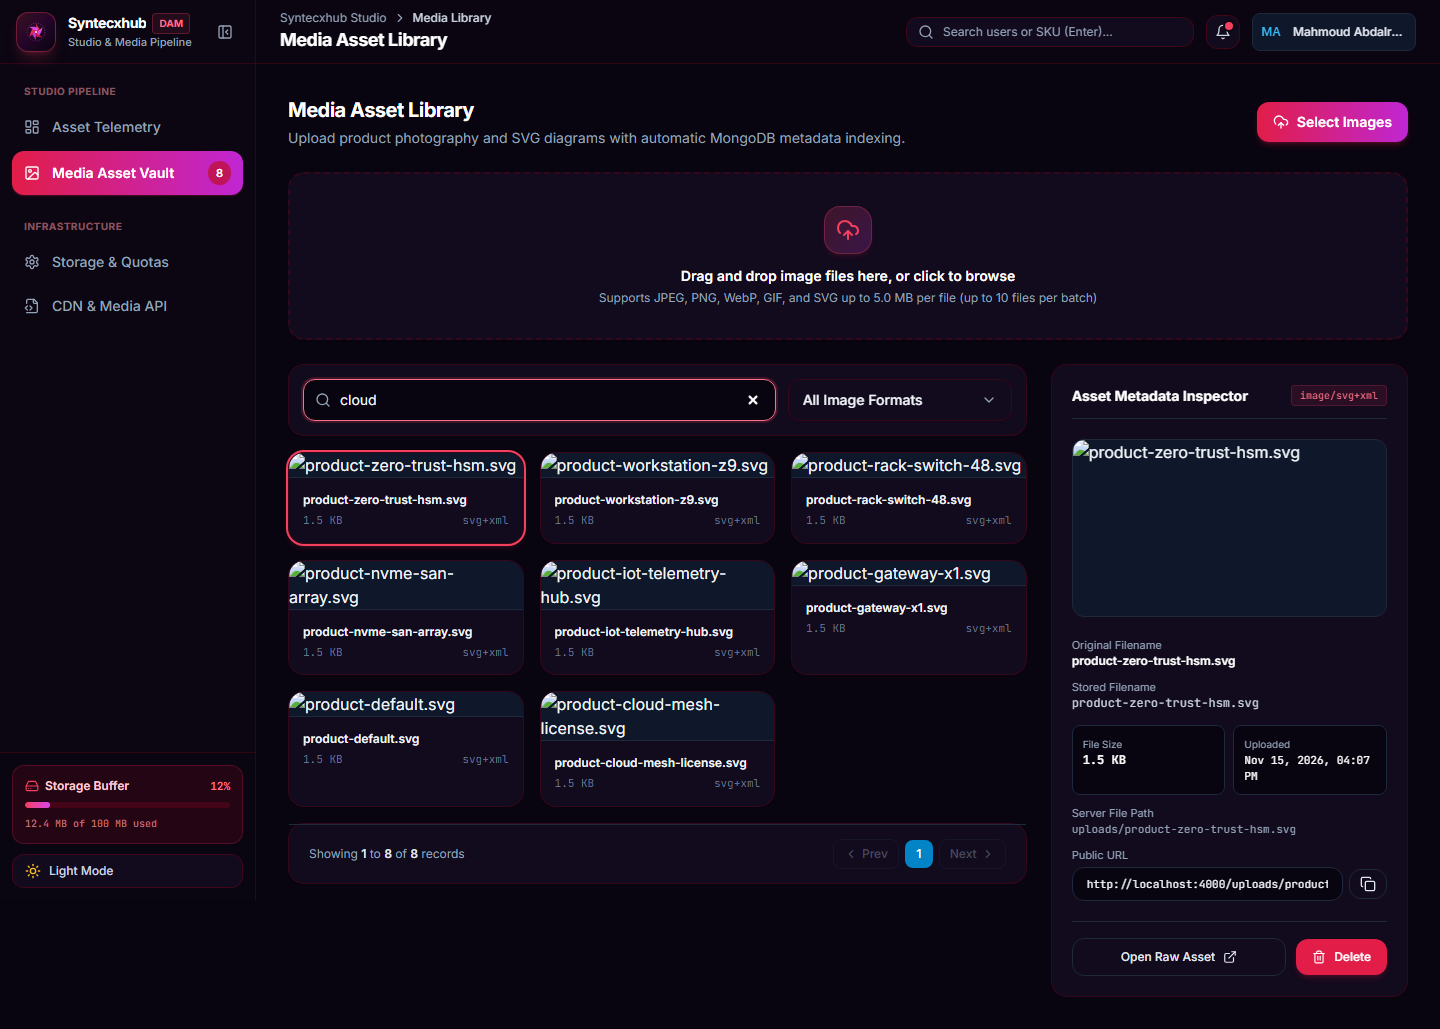
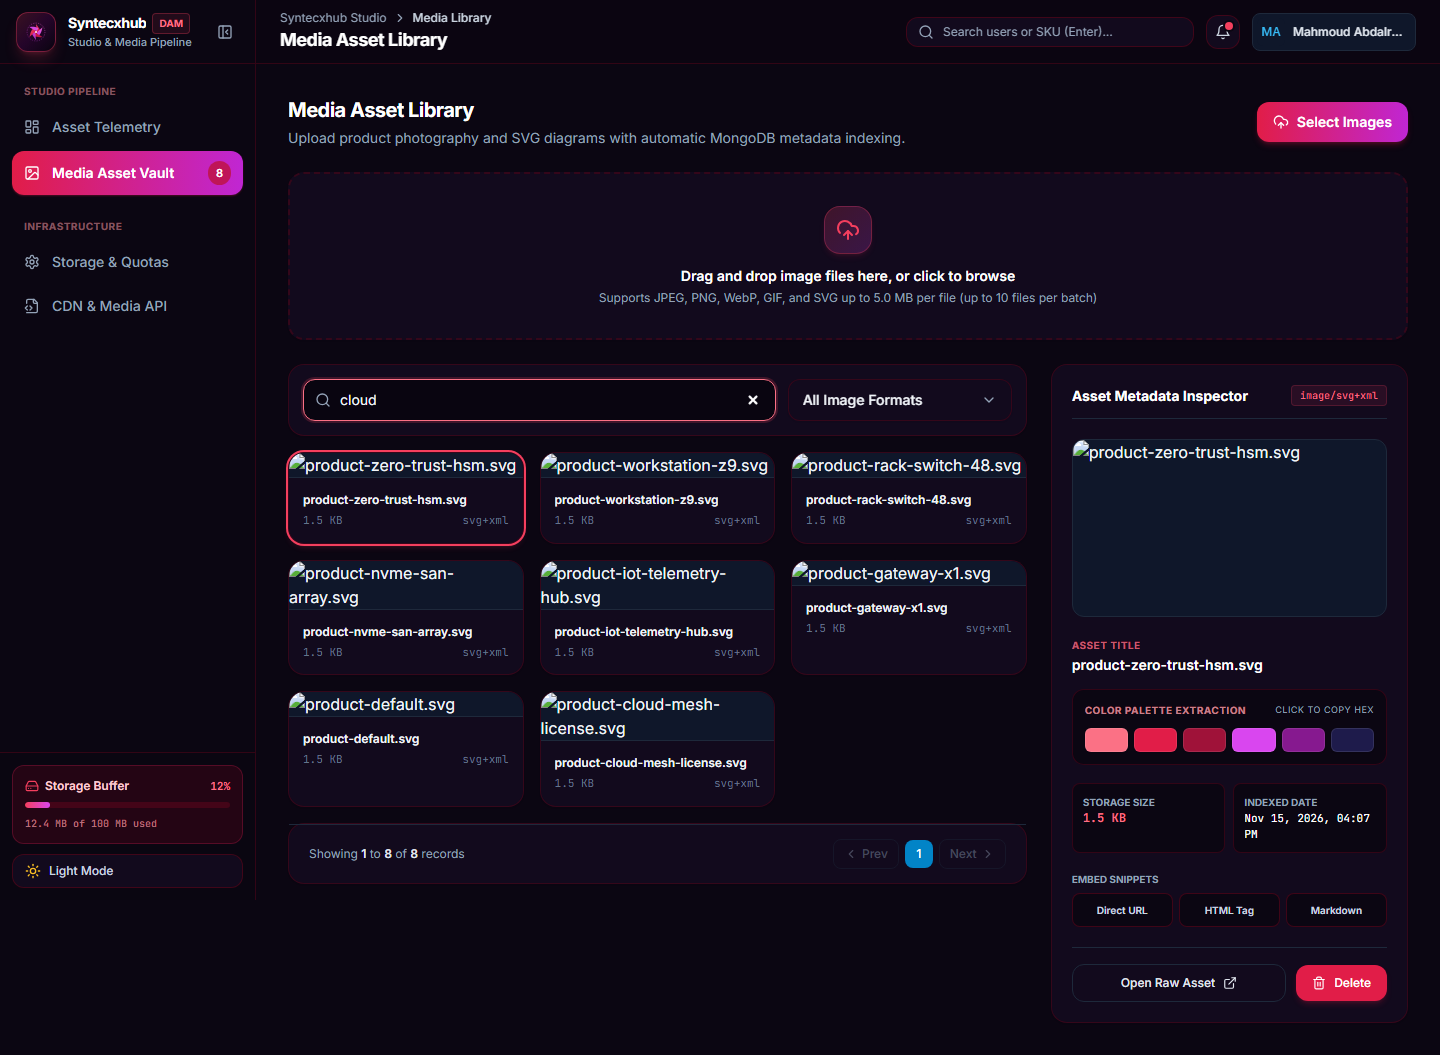
feat(ui): implement Creative Studio DAM visual canvas, ambient studio lighting, and color palette inspector

diff --git a/frontend/app/pages/media/index.vue b/frontend/app/pages/media/index.vue
@@ -402,55 +402,75 @@ const handleDeleteAsset = async (record: UploadRecord) => {
             />
           </div>
 
-          <div class="space-y-2.5 text-xs">
+          <!-- Live Creative Asset Inspector Details -->
+          <div class="space-y-3.5 text-xs">
             <div>
-              <span class="text-slate-400 block text-[11px]">Original Filename</span>
-              <span class="font-semibold text-slate-900 dark:text-white break-all">
+              <span class="text-rose-400/80 block text-[10px] uppercase font-bold tracking-wider mb-0.5">Asset Title</span>
+              <span class="font-semibold text-slate-900 dark:text-white break-all text-sm">
                 {{ uploadsStore.selectedFile.originalName }}
               </span>
             </div>
-            <div>
-              <span class="text-slate-400 block text-[11px]">Stored Filename</span>
-              <span class="font-mono text-slate-700 dark:text-slate-300 break-all">
-                {{ uploadsStore.selectedFile.storedName }}
+
+            <!-- Creative Palette Swatches -->
+            <div class="rounded-xl border border-rose-950/60 bg-[#0B0612]/90 p-3 space-y-2">
+              <span class="text-[10px] font-bold uppercase tracking-wider text-rose-300/80 flex items-center justify-between">
+                <span>Color Palette Extraction</span>
+                <span class="text-[9px] text-slate-400 font-normal">Click to copy hex</span>
               </span>
+              <div class="flex items-center gap-1.5 pt-0.5">
+                <button
+                  v-for="color in ['#FB7185', '#E11D48', '#9F1239', '#D946EF', '#86198F', '#1E1B4B']"
+                  :key="color"
+                  type="button"
+                  class="h-6 flex-1 rounded-md border border-white/10 hover:scale-110 transition-transform cursor-pointer shadow-sm relative group/c"
+                  :style="{ backgroundColor: color }"
+                  :title="`Copy ${color}`"
+                  @click="copy(color); toast.success('Copied Hex', color)"
+                >
+                  <span class="sr-only">{{ color }}</span>
+                </button>
+              </div>
             </div>
+
             <div class="grid grid-cols-2 gap-2 pt-1">
-              <div class="rounded-lg bg-slate-50 dark:bg-slate-950 p-2.5 border border-slate-200 dark:border-slate-800">
-                <span class="text-slate-400 block text-[10px]">File Size</span>
-                <span class="font-mono font-semibold text-slate-900 dark:text-white">
+              <div class="rounded-lg bg-slate-50 dark:bg-[#0B0612] p-2.5 border border-slate-200 dark:border-rose-950/60">
+                <span class="text-slate-400 block text-[10px] uppercase font-bold">Storage Size</span>
+                <span class="font-mono font-bold text-rose-400 text-xs">
                   {{ formatBytes(uploadsStore.selectedFile.size) }}
                 </span>
               </div>
-              <div class="rounded-lg bg-slate-50 dark:bg-slate-950 p-2.5 border border-slate-200 dark:border-slate-800">
-                <span class="text-slate-400 block text-[10px]">Uploaded</span>
+              <div class="rounded-lg bg-slate-50 dark:bg-[#0B0612] p-2.5 border border-slate-200 dark:border-rose-950/60">
+                <span class="text-slate-400 block text-[10px] uppercase font-bold">Indexed Date</span>
                 <span class="font-mono text-[11px] text-slate-900 dark:text-white">
                   {{ formatDateTime(uploadsStore.selectedFile.uploadDate) }}
                 </span>
               </div>
             </div>
-            <div>
-              <span class="text-slate-400 block text-[11px]">Server File Path</span>
-              <span class="font-mono text-[11px] text-slate-600 dark:text-slate-400 break-all">
-                {{ uploadsStore.selectedFile.filePath }}
-              </span>
-            </div>
-            <div>
-              <span class="text-slate-400 block text-[11px] mb-1">Public URL</span>
-              <div class="flex items-center gap-1.5">
-                <input
-                  :value="resolveAssetUrl(uploadsStore.selectedFile.publicUrl)"
-                  readonly
-                  class="input-field font-mono text-[11px] py-1.5"
-                />
+
+            <!-- CDN Embed Snippets -->
+            <div class="space-y-1.5 pt-1">
+              <span class="text-slate-400 block text-[10px] uppercase font-bold">Embed Snippets</span>
+              <div class="grid grid-cols-3 gap-1.5">
                 <button
                   type="button"
-                  class="btn-secondary px-2.5 py-1.5 shrink-0"
-                  title="Copy Public URL"
-                  @click="handleCopyUrl(uploadsStore.selectedFile.publicUrl)"
+                  class="rounded-lg border border-slate-200 dark:border-rose-950/80 bg-slate-50 dark:bg-[#0B0612] p-2 text-center text-[10px] font-semibold text-slate-700 dark:text-slate-300 hover:border-rose-500 hover:text-rose-400 transition-colors"
+                  @click="copy(resolveAssetUrl(uploadsStore.selectedFile.publicUrl)); toast.success('Copied CDN URL', 'Direct link in clipboard')"
                 >
-                  <Check v-if="copied" class="h-4 w-4 text-emerald-500" />
-                  <Copy v-else class="h-4 w-4" />
+                  Direct URL
+                </button>
+                <button
+                  type="button"
+                  class="rounded-lg border border-slate-200 dark:border-rose-950/80 bg-slate-50 dark:bg-[#0B0612] p-2 text-center text-[10px] font-semibold text-slate-700 dark:text-slate-300 hover:border-rose-500 hover:text-rose-400 transition-colors"
+                  @click="copy(`<img src=\x22${resolveAssetUrl(uploadsStore.selectedFile.publicUrl)}\x22 alt=\x22${uploadsStore.selectedFile.originalName}\x22 />`); toast.success('Copied HTML tag', 'HTML <img> tag in clipboard')"
+                >
+                  HTML Tag
+                </button>
+                <button
+                  type="button"
+                  class="rounded-lg border border-slate-200 dark:border-rose-950/80 bg-slate-50 dark:bg-[#0B0612] p-2 text-center text-[10px] font-semibold text-slate-700 dark:text-slate-300 hover:border-rose-500 hover:text-rose-400 transition-colors"
+                  @click="copy(`![${uploadsStore.selectedFile.originalName}](${resolveAssetUrl(uploadsStore.selectedFile.publicUrl)})`); toast.success('Copied Markdown', 'Markdown embed in clipboard')"
+                >
+                  Markdown
                 </button>
               </div>
             </div>

diff --git a/frontend/app/layouts/default.vue b/frontend/app/layouts/default.vue
@@ -1,11 +1,15 @@
 <template>
-  <div class="flex min-h-screen bg-slate-50 dark:bg-slate-950 text-slate-900 dark:text-slate-100">
+  <div class="flex min-h-screen bg-[#FDF2F4] dark:bg-[#0B0612] text-slate-900 dark:text-slate-100 font-sans selection:bg-rose-500 selection:text-white relative overflow-x-hidden">
+    <!-- Ambient Studio Lighting Glow -->
+    <div class="pointer-events-none fixed top-0 right-1/4 -z-10 h-96 w-96 rounded-full bg-rose-600/10 blur-[120px] dark:bg-rose-600/15" />
+    <div class="pointer-events-none fixed bottom-10 left-1/3 -z-10 h-80 w-80 rounded-full bg-fuchsia-600/10 blur-[100px] dark:bg-fuchsia-600/10" />
+
     <LayoutAppSidebar />
 
     <div class="flex min-w-0 flex-1 flex-col">
       <LayoutAppTopbar />
 
-      <main class="flex-1 p-4 sm:p-6 lg:p-8 max-w-[1600px] w-full mx-auto">
+      <main class="flex-1 p-4 sm:p-6 lg:p-8 max-w-[1720px] w-full mx-auto">
         <slot />
       </main>
     </div>
